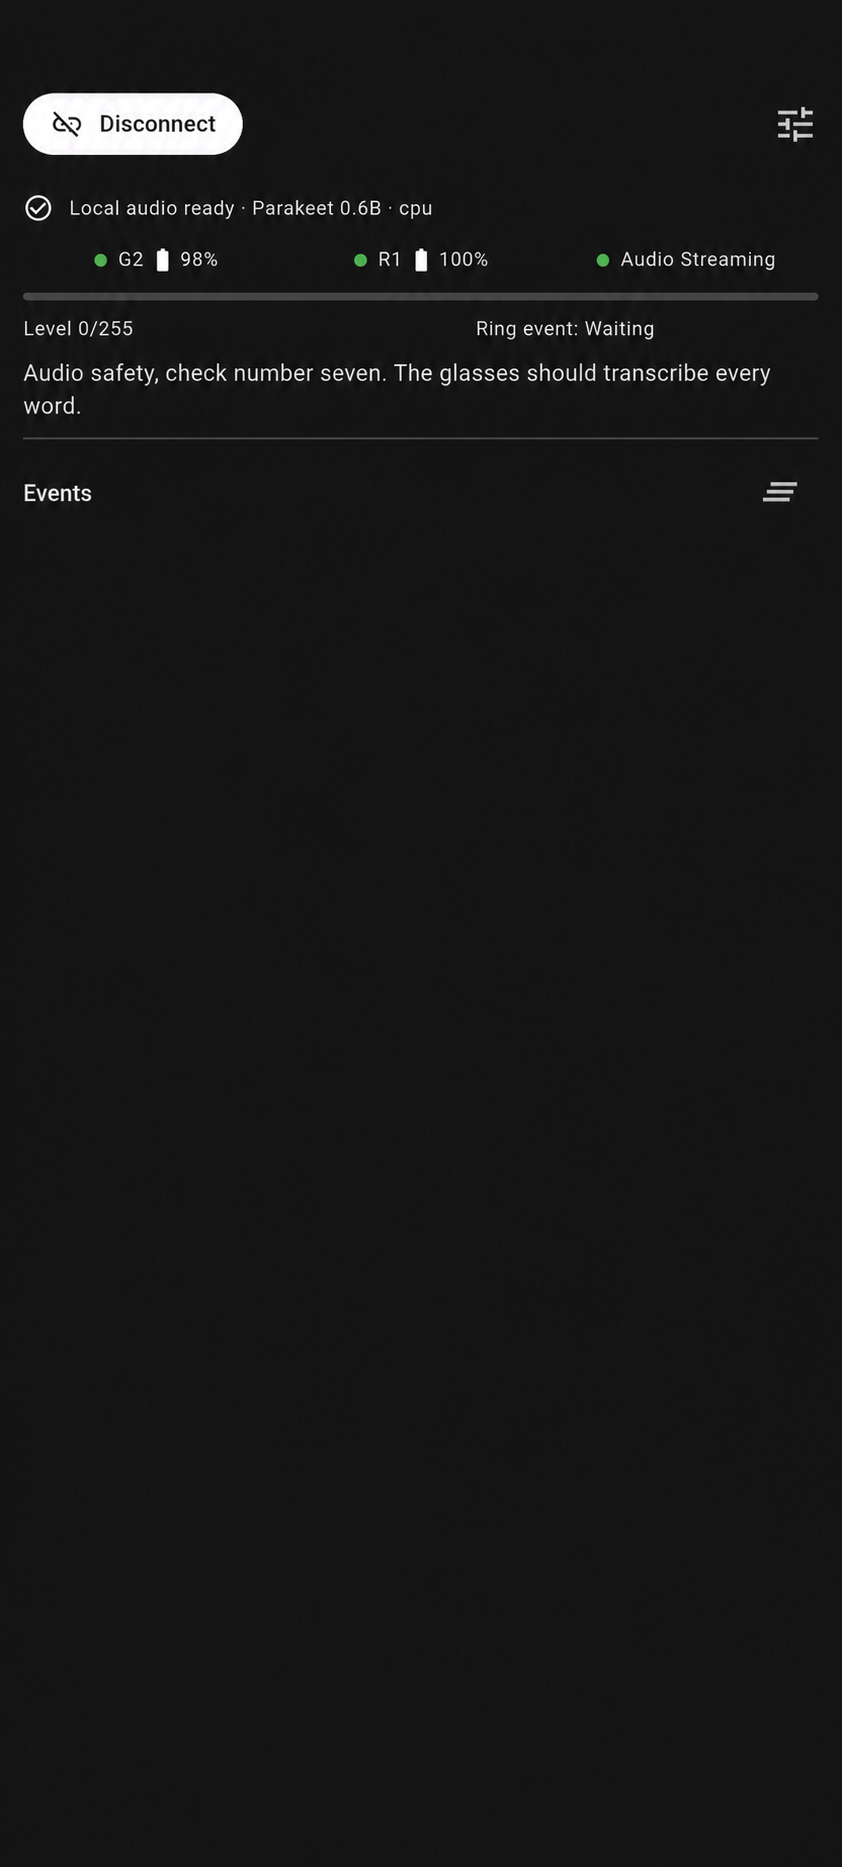
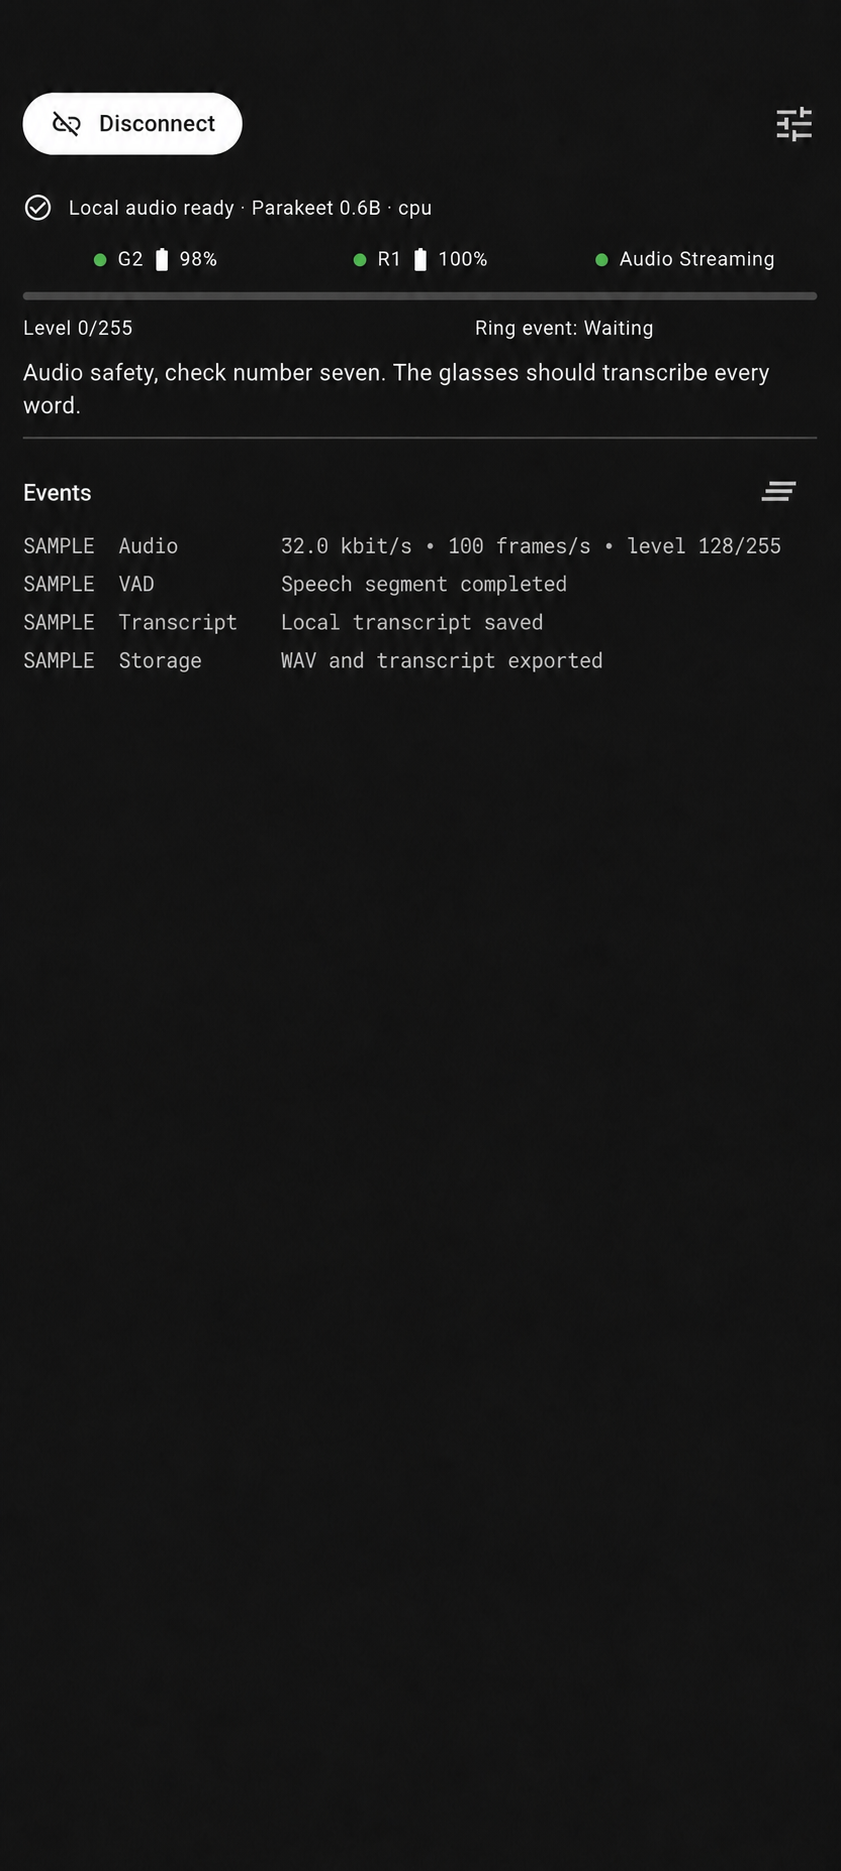
Refine README app preview

diff --git a/README.md b/README.md
@@ -1,12 +1,12 @@
-# Work Bench
-
-<p align="center">
+<h1>
   <img
     src="android/app/src/main/res/mipmap-xxxhdpi/ic_launcher.png"
     alt="Work Bench app icon"
-    width="96"
+    width="48"
+    align="absmiddle"
   >
-</p>
+  Work Bench
+</h1>
 
 <p align="center">
   <img
@@ -17,7 +17,7 @@
 </p>
 
 <p align="center">
-  <em>Physical G2 audio → Parakeet 0.6B transcription test. System chrome and live protocol events were removed from this repository-safe image.</em>
+  <em>Physical G2 audio → Parakeet 0.6B transcription test. System chrome and live protocol events were removed; rows labeled SAMPLE are synthetic.</em>
 </p>
 
 Work Bench is a local-first wearable work agent built around the Even
